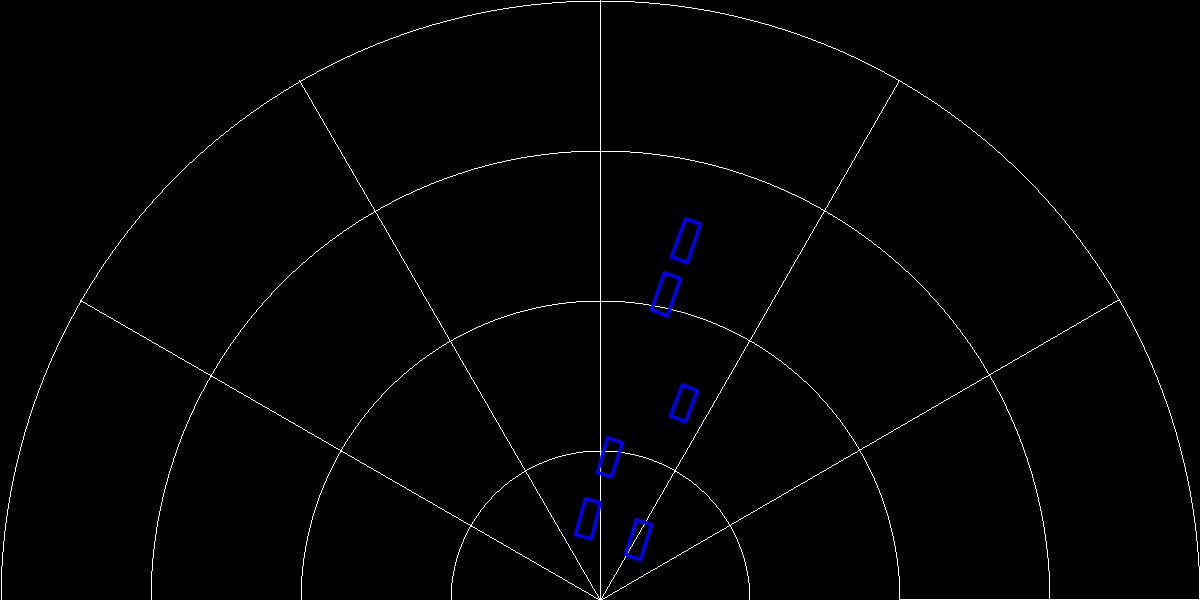
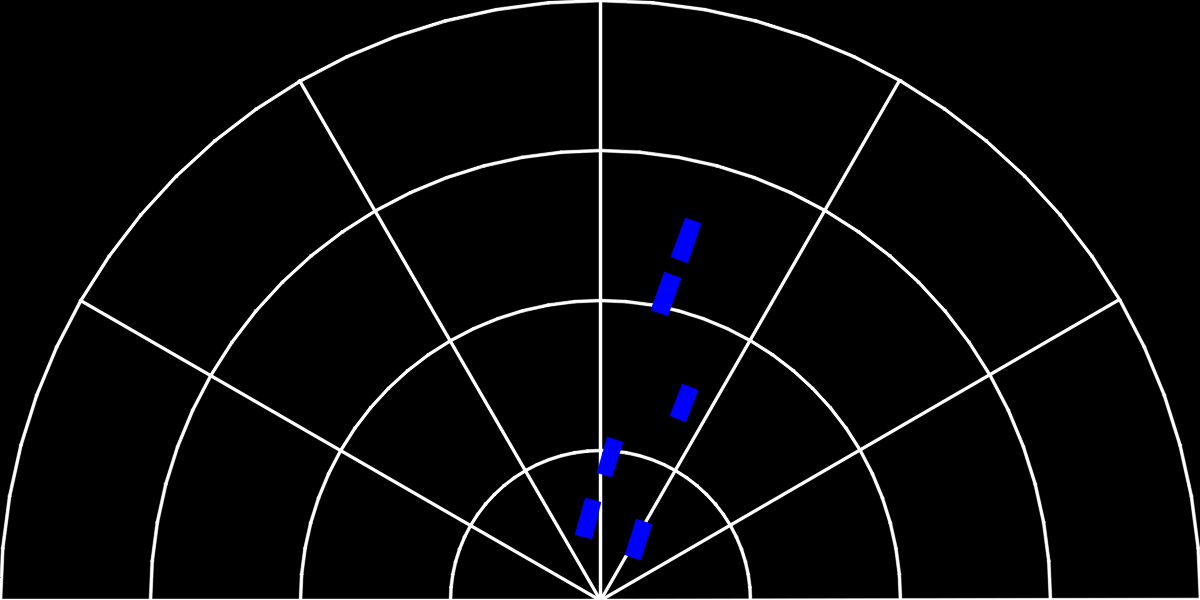
2022.08.30 02:46

diff --git a/utils/visualizer.py b/utils/visualizer.py
@@ -128,7 +128,8 @@ class Visualizer:
                             pt1=(int(R - R * np.cos(theta)), int(R - R * np.sin(theta))),
                             pt2=(R, R),
                             color=(255, 255, 255), 
-                            thickness=1)
+                            thickness=2,
+                            lineType=cv2.LINE_AA)
         
         for radius in np.linspace(0, R, 5):
             if radius == 0:
@@ -138,7 +139,8 @@ class Visualizer:
                                center=(R, R), 
                                radius=int(radius), 
                                color=(255, 255, 255), 
-                               thickness=1)
+                               thickness=2,
+                               lineType=cv2.LINE_AA)
         space = space[:R, :, :]
         
         # Load 3D Predicted Boxes
@@ -161,7 +163,7 @@ class Visualizer:
                 
                 label = pred_labels_3d[idx].item()
                 color = CLASS_IDX_TO_COLOR[label]
-                space = cv2.drawContours(space, [box], -1, color, thickness=2, lineType=cv2.LINE_AA)            
+                space = cv2.drawContours(space, [box], -1, color, thickness=-1, lineType=cv2.LINE_AA)            
         
         if save_path is not None:
             space = cv2.cvtColor(space, cv2.COLOR_RGB2BGR)
@@ -169,8 +171,7 @@ class Visualizer:
         else:
             return space
         
-    
-    
+        
     def _add_transparent_box(self, 
                              image: np.ndarray, 
                              box_coordinate: Tuple[int, int, int, int],

diff --git a/README.MD b/README.MD
@@ -119,35 +119,38 @@ Change the value of ```DATA.ROOT``` in the ```config.yaml``` file to the KITTI d
 
 Depending on the starting seed, the above performance may not be reproduced.  
 The table below shows the performance obtained through 5 independent training, and it can be seen that there is some performance deviation.   
-|           | AP40@Easy     | AP40@Mod.     | AP40@Hard     |
-| --------- | ---------     |-----------    |-----------    |
-| Try #1    | 26.03         | 19.02         | 15.92         |
-| Try #2    | 25.50         | 18.40         | 15.47         |
-| Try #3    | 23.61         | 16.85         | 14.79         |
-| Try #4    | 23.40         | 17.36         | 14.69         |
-| Try #5    | 24.29         | 17.95         | 15.32         |
-| **Mean**  | 24.57         | 17.92         | 15.24         |
-| **Std**   | 1.16          | 0.85          | 0.51          |
+|               | AP40@Easy     | AP40@Mod.     | AP40@Hard     |
+| ---------     | ---------     |-----------    |-----------    |
+| Train #1      | 26.03         | 19.02         | 15.92         |
+| Train #2      | 25.50         | 18.40         | 15.47         |
+| Train #3      | 23.61         | 16.85         | 14.79         |
+| Train #4      | 23.40         | 17.36         | 14.69         |
+| Train #5      | 24.29         | 17.95         | 15.32         |
+| **Mean**      | 24.57         | 17.92         | 15.24         |
+| **Std**       | 1.16          | 0.85          | 0.51          |
 
 
 ## Qualitative Results  
 Visualizations for 2D Boxes, 3D Boxes, and BEV, respectively, from top to bottom for each sample.  
-- 000008.png (Validation Set)  
+- **000008.png** (Validation Set)  
 <img src="resources/000008_2d.png">
 <img src="resources/000008_3d.png">  
 <img src="resources/000008_bev.png">  
 
-- 000134.png (Validation Set)  
+- **000134.png** (Validation Set)  
 <img src="resources/000134_2d.png">
 <img src="resources/000134_3d.png">  
+<img src="resources/000134_bev.png">  
 
-- 000472.png (Validation Set)  
+- **000472.png** (Validation Set)  
 <img src="resources/000472_2d.png">
 <img src="resources/000472_3d.png">  
+<img src="resources/000472_bev.png">  
 
-- 004122.png (Validation Set)  
+- **004122.png** (Validation Set)  
 <img src="resources/004122_2d.png">
 <img src="resources/004122_3d.png">  
+<img src="resources/004122_bev.png">  
 
 
 ## Change Log
